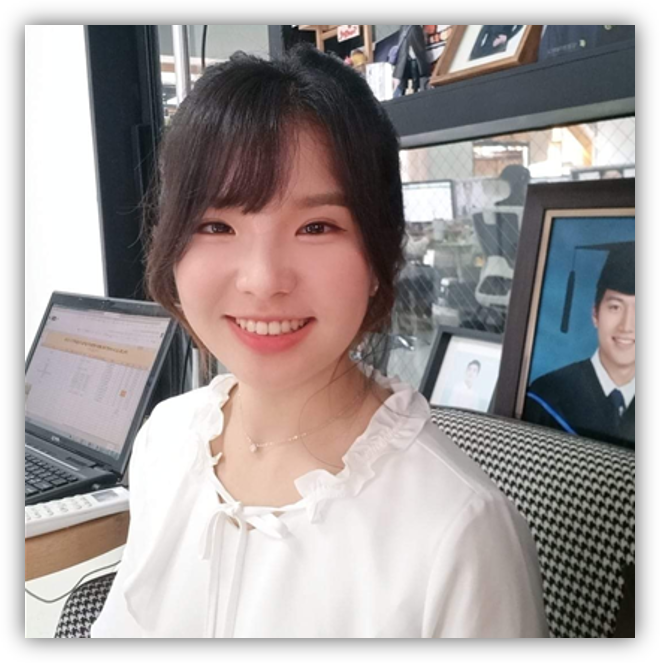
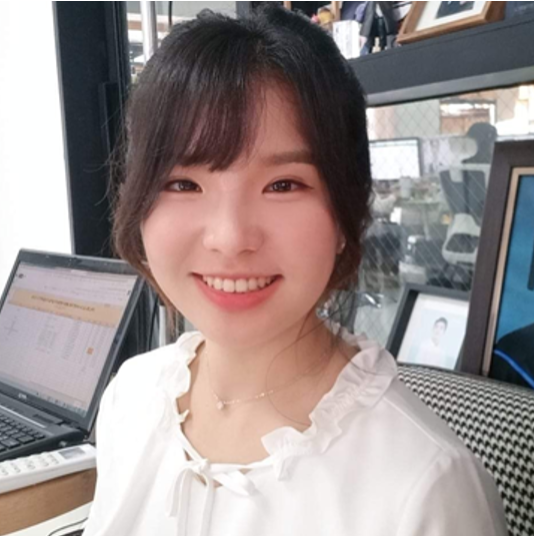
intro changed

diff --git a/index.md b/index.md
@@ -7,9 +7,6 @@ title: Home
 	<div id="intro-title-wrapper">
 		<div id="intro-image-wrapper">
 			<img id="intro-image" src="/images/seulgi.png"></div>
-		<div id="intro-title-text-wrapper">
-			<h1 id="intro-title">Hi, I'm Seulgi Kim</h1>
-			<div id="intro-subtitle">PhD student at Georgia Tech 🐝</div>
 			<div id="intro-title-socials">
 				{% for link in site.data.social-links %}
 					{% if link.on-homepage == true %}
@@ -20,22 +17,21 @@ title: Home
 					<a href="{{ site.url }}/cv"><div><i class="fa fa-portrait icon icon-right-space"></i>CV</div></a>
 				</div>
 			</div>
+		<div id="intro-title-text-wrapper">
+			<h1 id="intro-title">Hi, I'm Seulgi Kim</h1>
 		</div>
 	</div>
-	<!-- <div id="everything-else" class="l-middle">
+	<div id="everything-else" class="l-middle">
 		<a href="{{ site.url }}/cv"><div><i class="fa fa-portrait icon icon-right-space"></i>CV</div></a>
-	</div> -->
+	</div>
 	<div>
-		My research bridges <span class="intro-ml">machine learning</span> and <span class="intro-hci">human-computer interaction</span>
-		to advance <b>Responsible AI</b>.
-		I design and develop
-		<b>novel visual explanations</b> for complex machine learning models, and
-		<b>scalable algorithms</b> that promote accountable use of AI.
+		My research lies with the intersection of computer vision and multi-modal learning, with a particular emphasis on modeling temporal and semantic relationships between actions in long-term video sequences.
 	</div>
 	<div style="height: 1rem"></div>
 	<div>
-		I am pursuing my Ph.D. at Georgia Tech, working with <a href="http://www.cc.gatech.edu/~dchau/">Polo Chau</a>.
-		I received my B.S. from Seoul National University, where I was supported by <a href="https://www.kosaf.go.kr/eng/jsp/aid/aid02_01_01.jsp">Presidential Science Scholarship</a>.
+		I am pursuing my Ph.D. at Georgia Tech, working with <a href="https://alregib.ece.gatech.edu/">Ghassan AlRegib</a>.
+		I received my B.S. from Seoul National University, where I was supported by <a href="https://www.kosaf.go.kr/eng/jsp/aid/aid02_01_01.jsp">Hyundai Research Scholarship</a>.
+
 	</div>
 	<div style="height: 1rem"></div>
 	<div>
